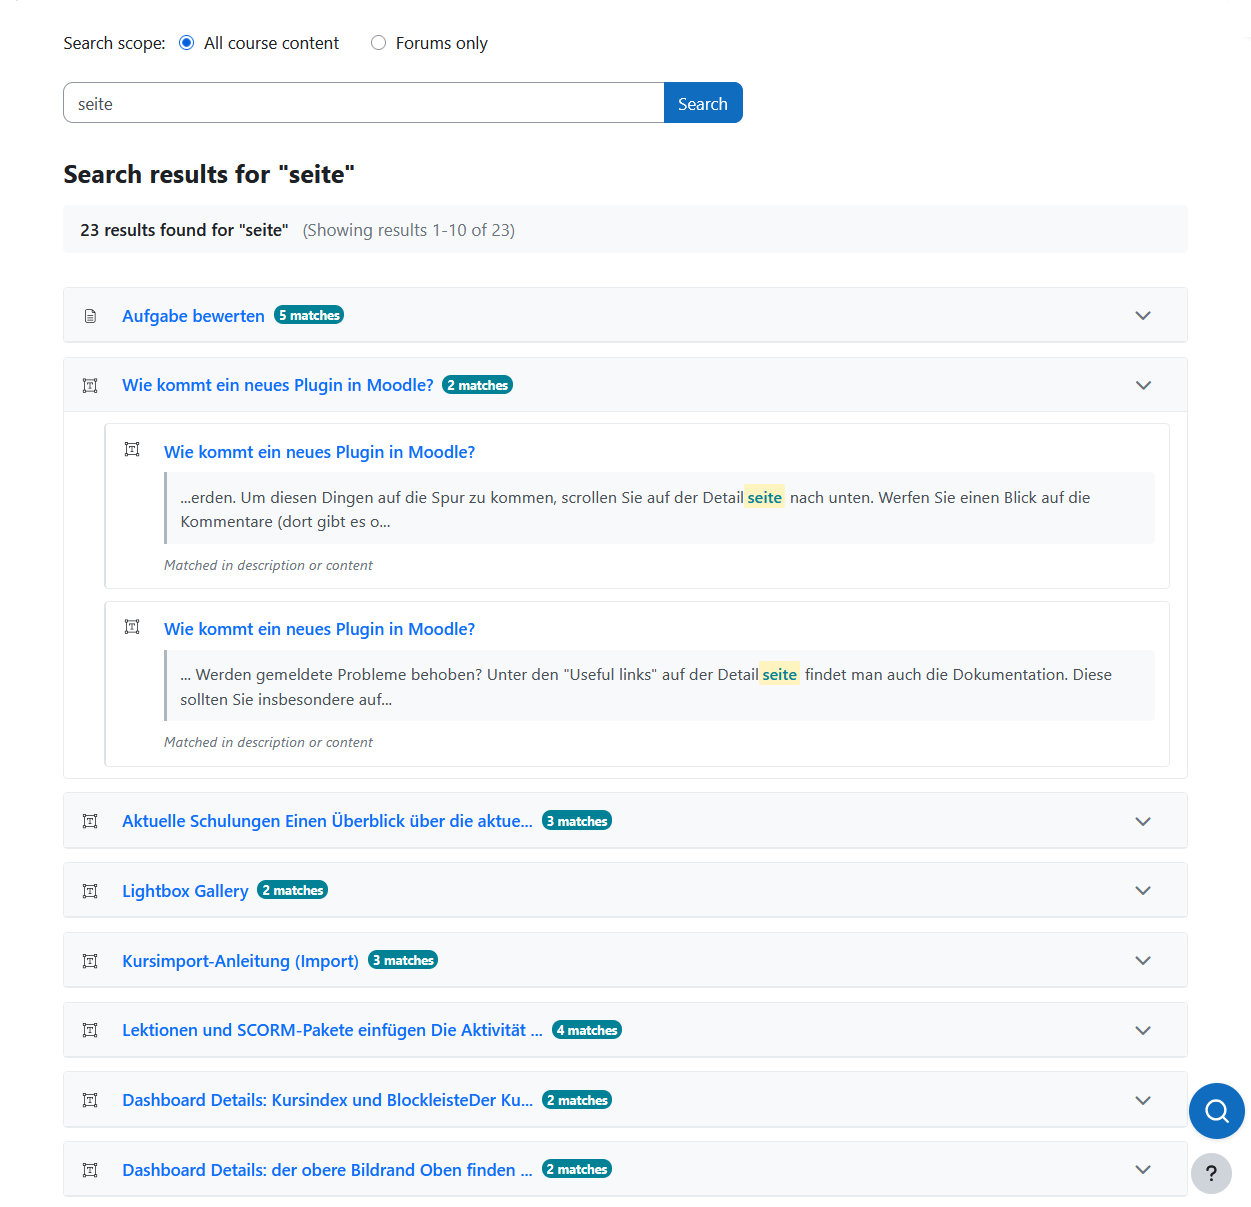
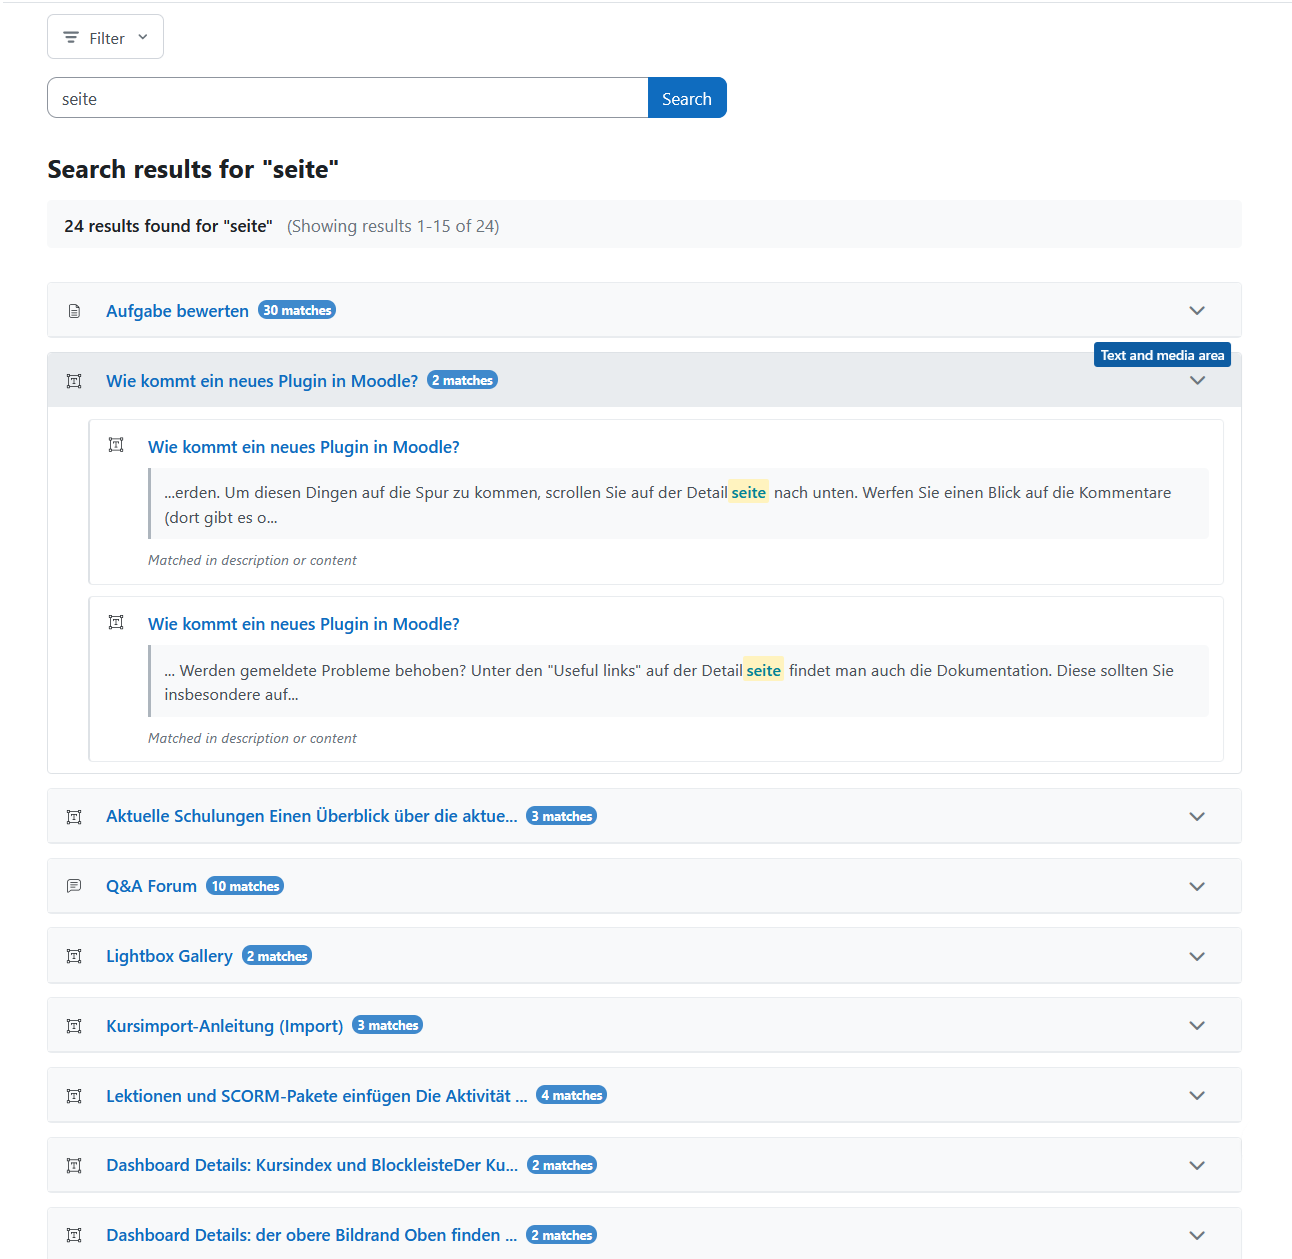
Screenshots updated for new interface

diff --git a/version.php b/version.php
@@ -24,7 +24,7 @@
 
 defined('MOODLE_INTERNAL') || die();
 
-$plugin->version   = 2026011901;       // The current module version (Date: YYYYMMDDXX).
+$plugin->version   = 2026011902;       // The current module version (Date: YYYYMMDDXX).
 $plugin->requires  = 2024042200;       // Requires this Moodle version (Moodle 4.4+).
 $plugin->component = 'mod_coursesearch'; // Full name of the plugin (used for diagnostics).
 $plugin->cron      = 0;

diff --git a/README.md b/README.md
@@ -11,7 +11,7 @@ A comprehensive Moodle activity module that enables teachers to add a search bar
 
 ### Core Search Functionality
 - **Comprehensive Search**: Searches through all course content types
-- **Module Type Filter**: Filter search results by specific activity or resource types using an intuitive chip-based interface. Select multiple types to narrow down results (e.g., only Assignments and Quizzes, or only Pages and Books)
+- **Module Type Filter**: Filter search results by specific activity or resource types using an intuitive chip-based interface. Select multiple types to narrow down results (e.g., only Assignments and Quizzes, or only Pages and Books) ([screenshot](screenshots/search_interface_filter.png))
 - **Embedded Mode**: Option to embed search bar directly in course page ([screenshot](screenshots/interface_embedded_view_and_quick_access_widget.png))
 - **Results Grouping**: Optional grouping of search results by course sections (can be enabled/disabled per activity) ([grouped](screenshots/search_interface_grouped_mode.png) | [flat](screenshots/search_interface_flat_mode.png))
 - **Activity Grouping**: Automatic collapsible grouping of multiple matches within the same activity (e.g., multiple forum posts, book chapters, or content occurrences) ([screenshot](screenshots/search_interface_grouped_mode_activity_expanded.png))
@@ -56,7 +56,12 @@ The search bar can be embedded directly on the course page. The floating quick-a
 The main search interface with results grouped by course sections and collapsible activity grouping.
 
 <details>
-<summary>📸 More search interface screenshots</summary>
+<summary><strong>📸 More search interface screenshots ▼</strong></summary>
+
+#### Module Type Filter
+![Module Type Filter](screenshots/search_interface_filter.png)
+
+The collapsible filter panel allows users to select specific activity or resource types to narrow down search results. Selected filters are highlighted with theme colors.
 
 #### Flat Mode
 ![Flat Mode](screenshots/search_interface_flat_mode.png)
@@ -72,7 +77,7 @@ The main search interface with results grouped by course sections and collapsibl
 </details>
 
 <details>
-<summary>📸 Highlighting screenshots</summary>
+<summary><strong>📸 Highlighting screenshots ▼</strong></summary>
 
 #### Single Occurrence Highlight
 ![Single Occurrence](screenshots/scrollhighlighted_single_occurrence.png)
@@ -83,7 +88,7 @@ The main search interface with results grouped by course sections and collapsibl
 </details>
 
 <details>
-<summary>📸 Settings screenshots</summary>
+<summary><strong>📸 Settings screenshots ▼</strong></summary>
 
 #### Admin Settings
 ![Admin Settings](screenshots/admin_settings.png)
@@ -220,18 +225,19 @@ When clicking on search results, the plugin automatically:
 
 ## Version
 
-Current version: **1.4.7** (Build: 2026011901, Stable)
+Current version: **1.4.7** (Build: 2026011902, Stable)
 
 For detailed version history, see [CHANGES.md](CHANGES.md).
 
 <details>
-<summary>View enhancement history</summary>
+<summary><strong>📜 View enhancement history ▼</strong></summary>
 
 ### Enhancements (December 2025)
 - Extended highlighting support to Pages, Books, Lessons, Wiki, Forums, Glossary, and Database activities
 - Added search results pagination and grouping by sections
 
 ### Enhancements (January 2026)
+- Added module type filter with chip-based UI - users can now filter search results by specific activity or resource types (e.g., only Assignments, Quizzes, Pages, etc.)
 - Added floating quick-access search widget with admin settings for enabling/disabling it and configuring its vertical offset position
 - Added optional grouping toggle allowing teachers to choose between grouped or flat list result display
 - Fixed HTML tag and placeholder matching bugs, improving search accuracy
